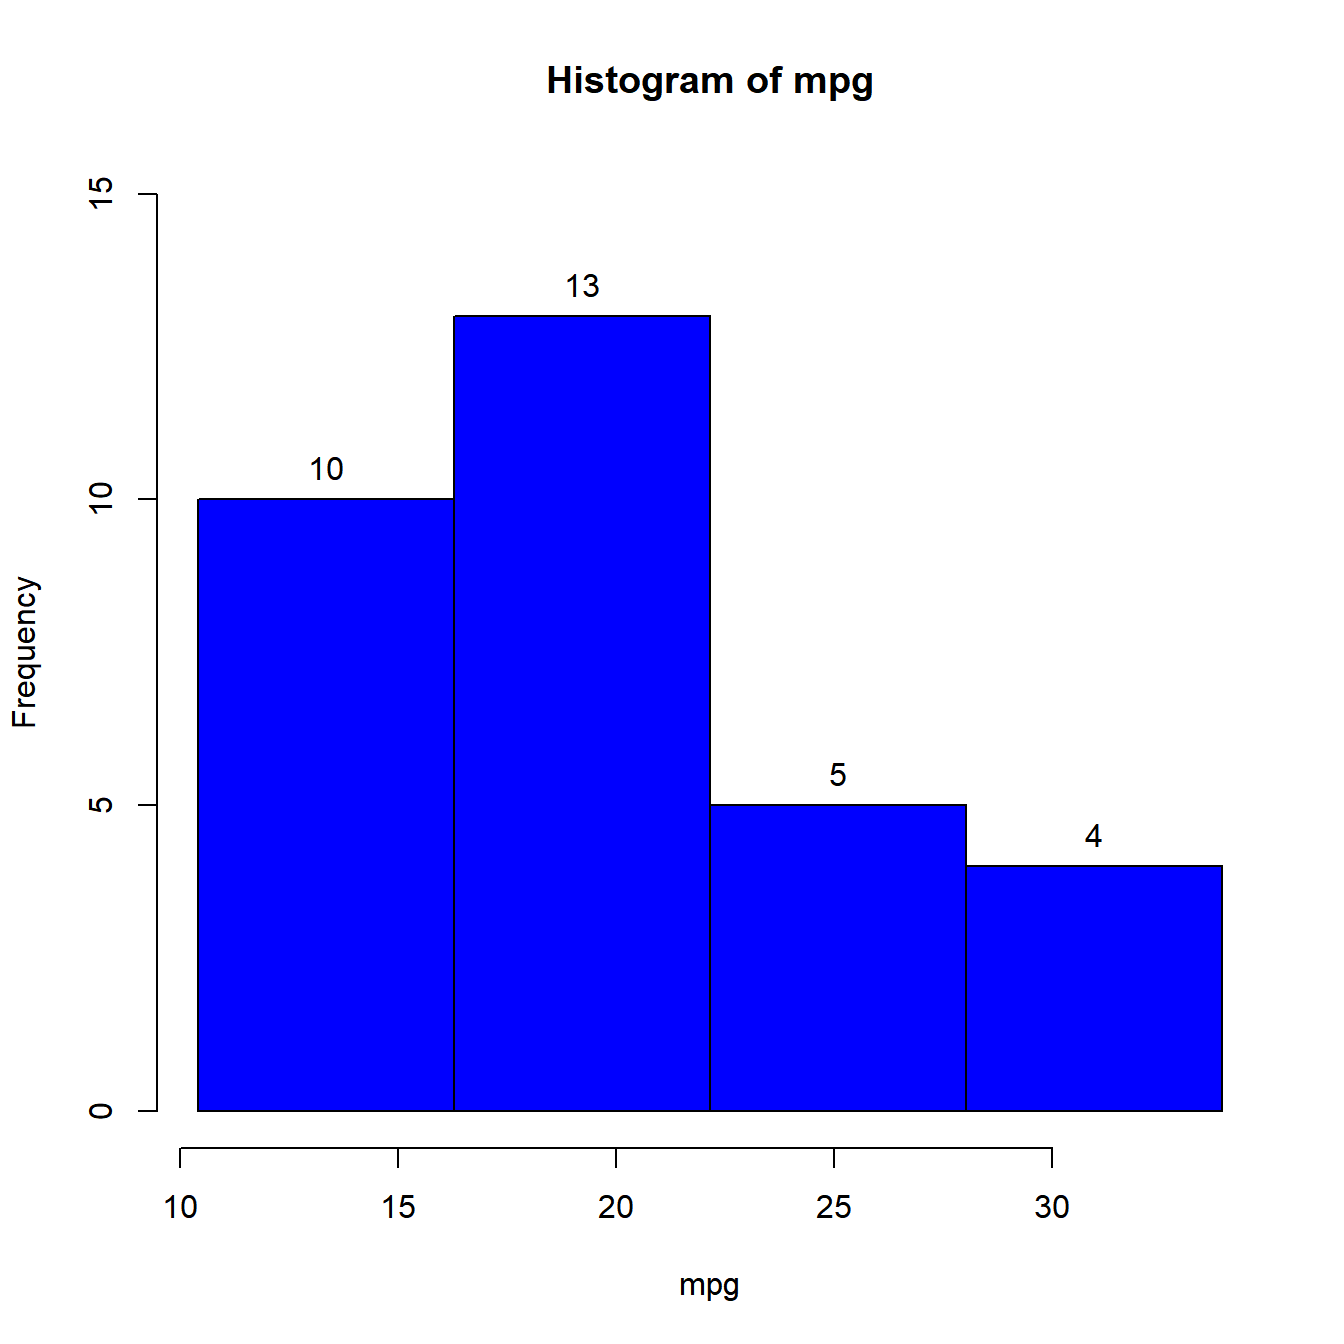
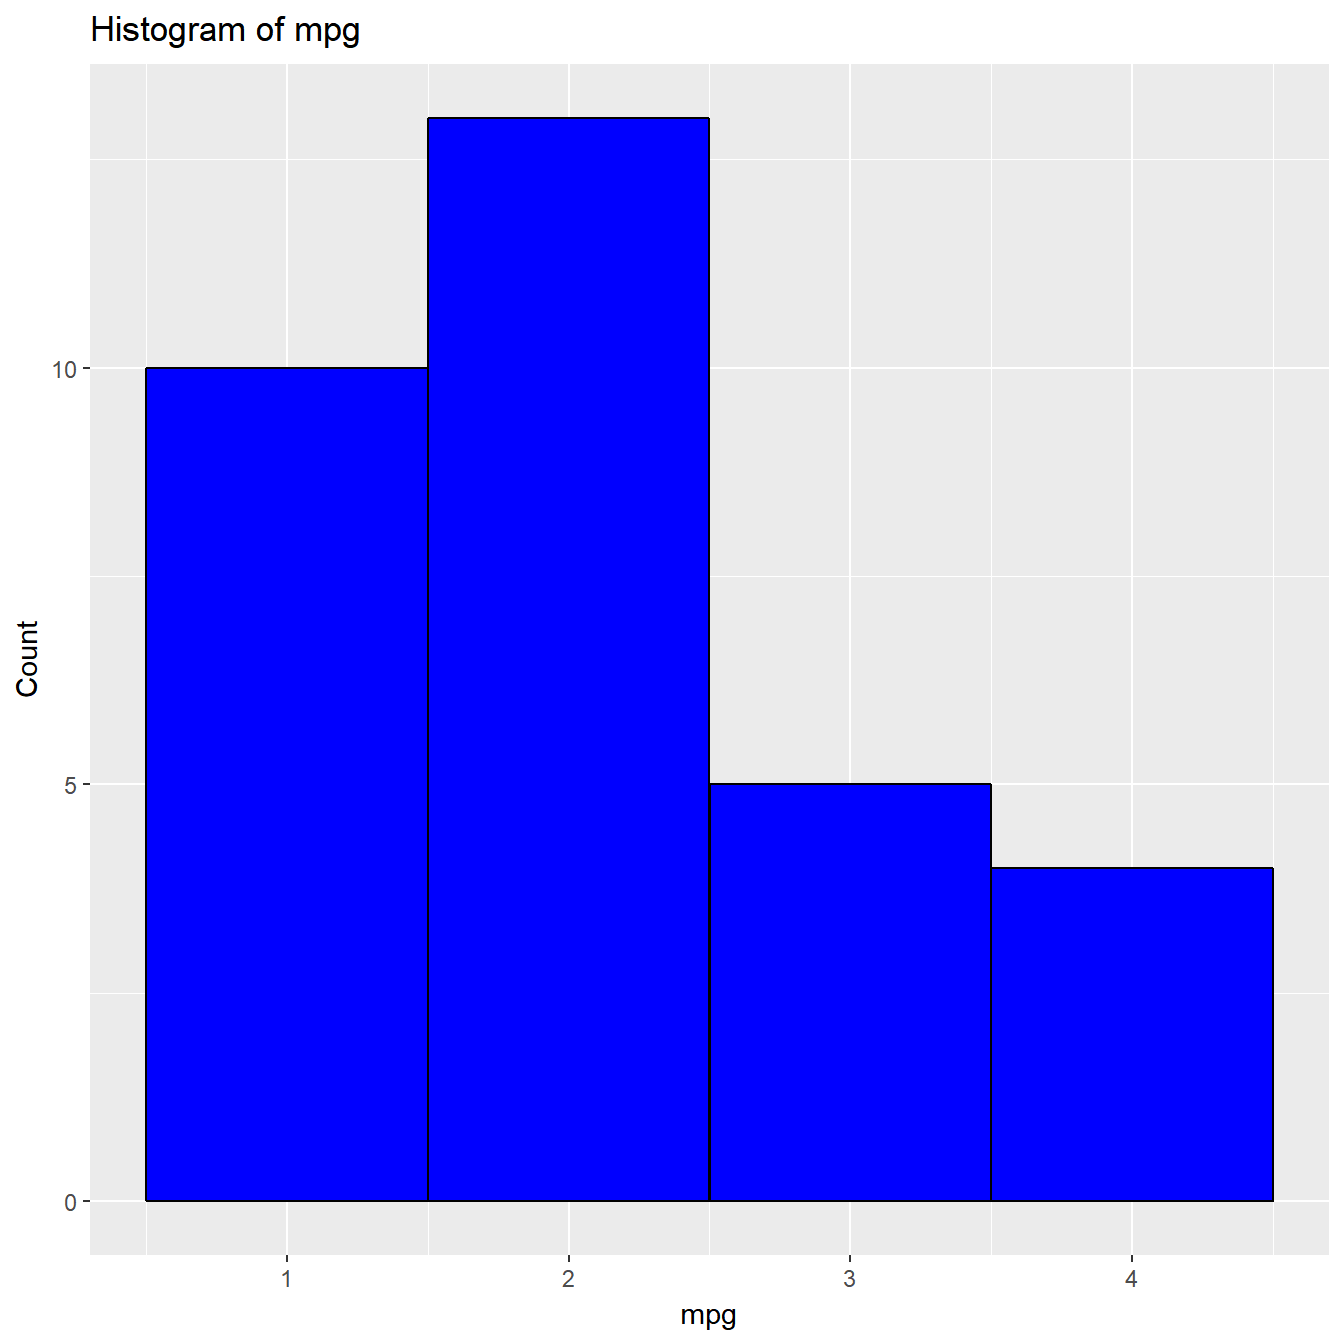
use ggplot2 for continuous frequency plots

diff --git a/docs/reference/ds_freq_cont.html b/docs/reference/ds_freq_cont.html
@@ -117,7 +117,7 @@ for the frequency table created using <code>ds_freq_cont</code></p>
     <pre class="usage"><span class='fu'>ds_freq_cont</span>(<span class='no'>data</span>, <span class='no'>variable</span>, <span class='kw'>bins</span> <span class='kw'>=</span> <span class='fl'>5</span>)
 
 <span class='co'># S3 method for ds_freq_cont</span>
-<span class='fu'>hist</span>(<span class='no'>x</span>, <span class='kw'>col</span> <span class='kw'>=</span> <span class='st'>"blue"</span>, <span class='no'>...</span>)</pre>
+<span class='fu'>plot</span>(<span class='no'>x</span>, <span class='no'>...</span>)</pre>
     
     <h2 class="hasAnchor" id="arguments"><a class="anchor" href="#arguments"></a> Arguments</h2>
     <table class="ref-arguments">
@@ -137,10 +137,6 @@ for the frequency table created using <code>ds_freq_cont</code></p>
     <tr>
       <th>x</th>
       <td><p>an object of class <code>ds_freq_cont</code></p></td>
-    </tr>
-    <tr>
-      <th>col</th>
-      <td><p>color of the bars</p></td>
     </tr>
     <tr>
       <th>...</th>
@@ -188,7 +184,7 @@ following components</p>
 #&gt; |---------------------------------------------------------------------------|</div><div class='input'>
 <span class='co'># histogram</span>
 <span class='no'>k</span> <span class='kw'>&lt;-</span> <span class='fu'>ds_freq_cont</span>(<span class='no'>mtcarz</span>, <span class='no'>mpg</span>, <span class='fl'>4</span>)
-<span class='fu'>hist</span>(<span class='no'>k</span>)</div><div class='img'><img src='ds_freq_cont-1.png' alt='' width='700' height='432.632880098887' /></div></pre>
+<span class='fu'>plot</span>(<span class='no'>k</span>)</div><div class='img'><img src='ds_freq_cont-1.png' alt='' width='700' height='432.632880098887' /></div></pre>
   </div>
   <div class="col-md-3 hidden-xs hidden-sm" id="sidebar">
     <h2>Contents</h2>

diff --git a/docs/articles/descriptive-stats.html b/docs/articles/descriptive-stats.html
@@ -293,7 +293,7 @@
 <a href="#histogram" class="anchor"></a>Histogram</h3>
 <p>A <code>hist</code> method has been defined.</p>
 <div class="sourceCode" id="cb17"><pre class="sourceCode r"><code class="sourceCode r"><a class="sourceLine" id="cb17-1" data-line-number="1">k &lt;-<span class="st"> </span><span class="kw"><a href="../reference/ds_freq_cont.html">ds_freq_cont</a></span>(mtcarz, mpg, <span class="dv">4</span>)</a>
-<a class="sourceLine" id="cb17-2" data-line-number="2"><span class="kw">hist</span>(k)</a></code></pre></div>
+<a class="sourceLine" id="cb17-2" data-line-number="2"><span class="kw">plot</span>(k)</a></code></pre></div>
 <p><img src="descriptive-stats_files/figure-html/fcont_hist-1.png" width="672"></p>
 </div>
 </div>

diff --git a/docs/reference/index.html b/docs/reference/index.html
@@ -174,7 +174,7 @@
         </tr><tr>
           <!--  -->
           <td>
-            <p><code><a href="ds_freq_cont.html">ds_freq_cont</a></code> <code><a href="ds_freq_cont.html">hist</a></code> </p>
+            <p><code><a href="ds_freq_cont.html">ds_freq_cont</a></code> <code><a href="ds_freq_cont.html">plot</a></code> </p>
           </td>
           <td><p>Frequency Distribution of Continuous Data</p></td>
         </tr><tr>
